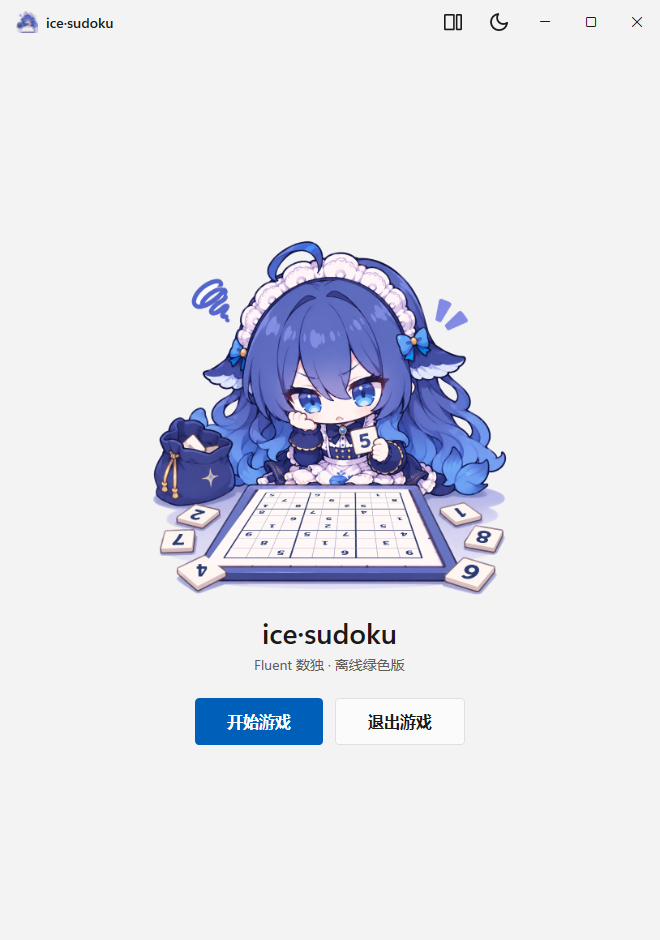
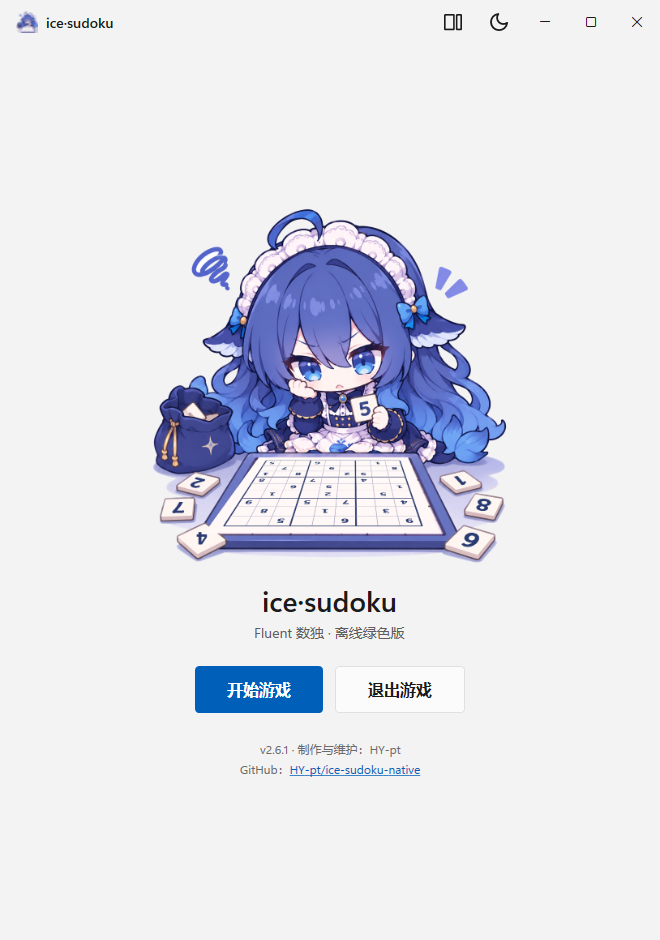
v2.6.1: add in-app credits and GitHub repo link

Changed region(s): [[0.2121, 0.216, 0.7879, 0.833]]

diff --git a/native/MainWindow.xaml b/native/MainWindow.xaml
@@ -71,6 +71,16 @@
           <Button x:Name="ExitGameBtn" Style="{StaticResource FluentButton}" Content="退出游戏" Padding="32,12"
                   FontSize="16" Click="ExitGame_Click"/>
         </StackPanel>
+        <TextBlock x:Name="FooterCreditText" HorizontalAlignment="Center" Margin="0,28,0,0"
+                   FontSize="12" Foreground="{DynamicResource TextTertiaryBrush}"/>
+        <TextBlock HorizontalAlignment="Center" Margin="0,4,0,0" FontSize="12"
+                   Foreground="{DynamicResource TextTertiaryBrush}">
+          <Run Text="GitHub："/><Hyperlink NavigateUri="https://github.com/HY-pt/ice-sudoku-native"
+                    RequestNavigate="RepoLink_RequestNavigate" Cursor="Hand"
+                    Foreground="{DynamicResource AccentBrush}"
+                    ToolTip="在浏览器中打开 GitHub 仓库"
+                    AutomationProperties.Name="GitHub 仓库：HY-pt/ice-sudoku-native">HY-pt/ice-sudoku-native</Hyperlink>
+        </TextBlock>
       </StackPanel>
     </Grid>
 

diff --git a/native/MainWindow.xaml.cs b/native/MainWindow.xaml.cs
@@ -1,6 +1,7 @@
 using System;
 using System.Collections.Generic;
 using System.ComponentModel;
+using System.Diagnostics;
 using System.Runtime.InteropServices;
 using System.Threading.Tasks;
 using System.Windows;
@@ -11,6 +12,7 @@ using System.Windows.Input;
 using System.Windows.Interop;
 using System.Windows.Media;
 using System.Windows.Media.Animation;
+using System.Windows.Navigation;
 using System.Windows.Shapes;
 using System.Windows.Threading;
 
@@ -66,6 +68,8 @@ public partial class MainWindow : Window
     {
         for (int r = 0; r < 9; r++) for (int c = 0; c < 9; c++) _notes[r, c] = new HashSet<int>();
         InitializeComponent();
+        var version = typeof(MainWindow).Assembly.GetName().Version;
+        FooterCreditText.Text = $"v{version?.ToString(3)} · 制作与维护：HY-pt";
         BuildBoard();
         BuildNumpad();
         _timer.Tick += (_, _) => { if (!_over && !_paused && _inGame) { _seconds++; UpdateTimer(); } };
@@ -670,6 +674,12 @@ public partial class MainWindow : Window
     /* ---------- 主菜单 / 暂停 ---------- */
     private void StartGame_Click(object sender, RoutedEventArgs e) => _ = NewGameAsync(_difficulty);
     private void ExitGame_Click(object sender, RoutedEventArgs e) => Close();
+
+    private void RepoLink_RequestNavigate(object sender, RequestNavigateEventArgs e)
+    {
+        Process.Start(new ProcessStartInfo(e.Uri.AbsoluteUri) { UseShellExecute = true });
+        e.Handled = true;
+    }
 
     private void PauseGame()
     {

diff --git a/README.md b/README.md
@@ -110,7 +110,7 @@ docs/                   README 截图
 
 | 版本 | 内容 |
 | --- | --- |
-| 2.6.1 | 启动页立绘重新抠图（保留眼睛高光，头发与轮廓边缘透明羽化，去除白边锯齿），应用图标同步更新；横版数字盘改为紧凑 3×3 键位并放大键内数字，右侧按键区与棋盘上下齐平，暂停按钮放大为 48×48 圆角矩形；草稿大数字进一步淡化、可用角标加粗放大 |
+| 2.6.1 | 启动页立绘重新抠图（保留眼睛高光，头发与轮廓边缘透明羽化，去除白边锯齿），应用图标同步更新；启动页底部标注版本、制作与维护者及 GitHub 仓库入口；横版数字盘改为紧凑 3×3 键位并放大键内数字，右侧按键区与棋盘上下齐平，暂停按钮放大为 48×48 圆角矩形；草稿大数字进一步淡化、可用角标加粗放大 |
 | 2.6.0 | 按 WinUI Gallery 逐项对齐：Segoe Fluent Icons、双层焦点框、按下 / 禁用态、InfoBar 提示条、字阶与 4px 间距、卡片阴影与切页动效、读屏名称、高对比度主题；默认柔和纯色背景，`--mica` 可选云母材质 |
 | 2.5.2 | 横版右侧面板与棋盘等高对齐、数字键改为近方形大按键 |
 | 2.5.1 | 两种布局统计框顶部居中、暂停按钮右上角；草稿视觉重做（棋盘数字含预设全部变灰、数字键右上角同数字可用角标） |
